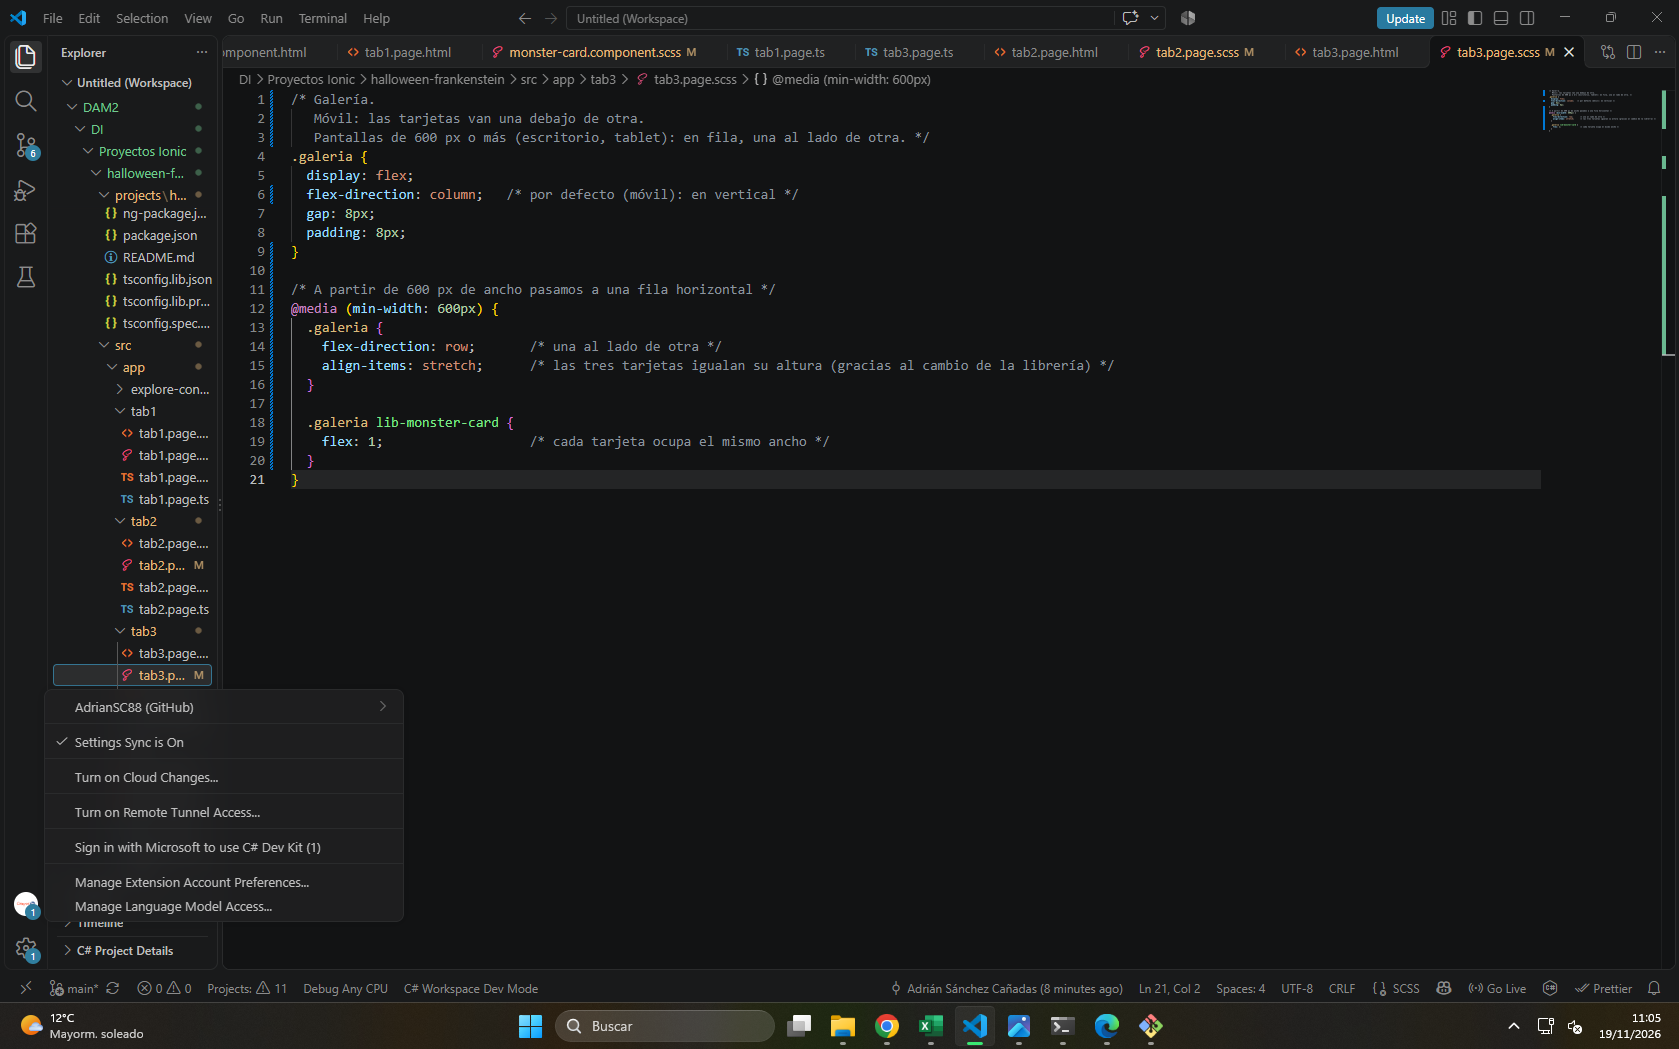
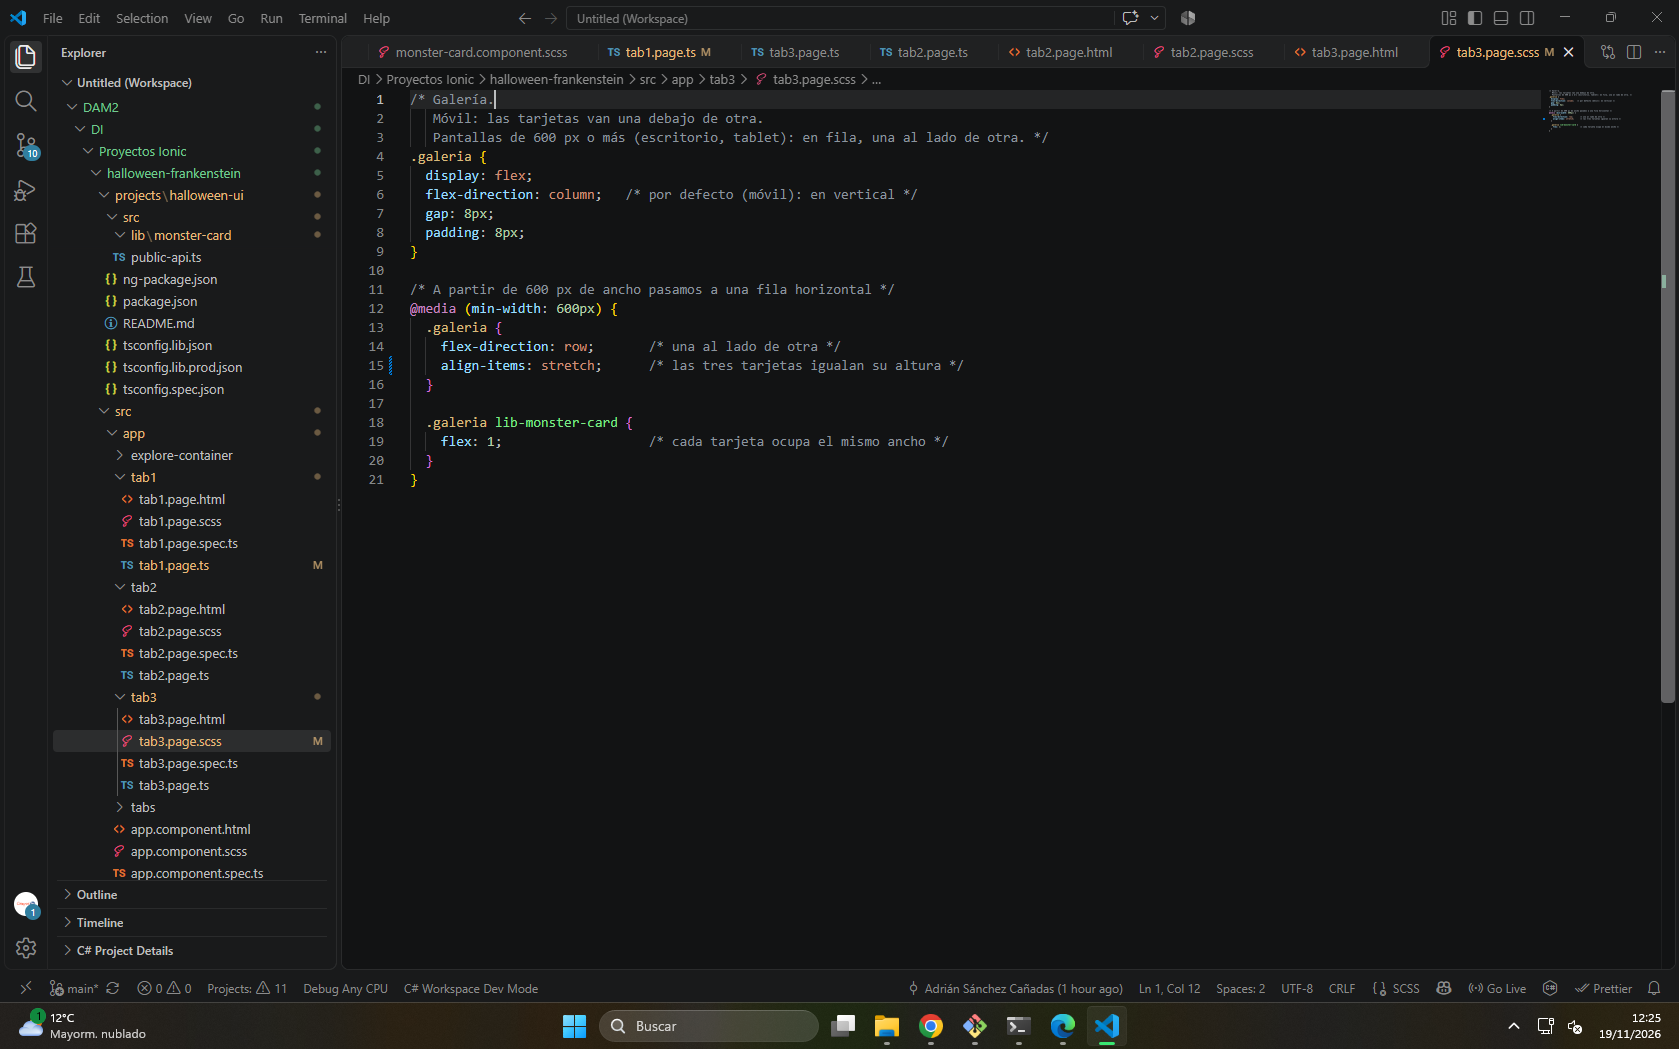
doc: Añadir README.md

diff --git a/src/app/tab1/tab1.page.ts b/src/app/tab1/tab1.page.ts
@@ -19,7 +19,6 @@ import { MonsterCardComponent } from 'halloween-ui';
 export class Tab1Page {
   // Texto que se muestra dentro de la tarjeta.
   // \n\n = línea en blanco entre párrafos y \n = salto de línea simple.
-  // Cada trozo va entre comillas y se une con +; el punto y coma solo va al final.
   textoInicio =
     '«Fui creado con retales de los muertos, y aun así soy el único que siente.»\n\n' +
     'Frankenstein nació en la novela que Mary Shelley publicó en 1818. ' +

diff --git a/projects/halloween-ui/src/lib/monster-card/monster-card.component.ts b/projects/halloween-ui/src/lib/monster-card/monster-card.component.ts
@@ -5,8 +5,7 @@
  * mediante @Input(), y avisa de la pulsación del botón mediante @Output().
  */
 import { Component, EventEmitter, Input, Output } from '@angular/core';
-// Importamos el botón de Ionic en su versión standalone
-// En Ionic 9 los componentes standalone se importan desde el paquete principal
+// Botón de Ionic que usa la plantilla de la tarjeta.
 import { IonButton } from '@ionic/angular';
 
 @Component({

diff --git a/src/app/tab3/tab3.page.scss b/src/app/tab3/tab3.page.scss
@@ -12,7 +12,7 @@
 @media (min-width: 600px) {
   .galeria {
     flex-direction: row;       /* una al lado de otra */
-    align-items: stretch;      /* las tres tarjetas igualan su altura (gracias al cambio de la librería) */
+    align-items: stretch;      /* las tres tarjetas igualan su altura */
   }
 
   .galeria lib-monster-card {

diff --git a/README.md b/README.md
@@ -1,0 +1,94 @@
+# Halloween Frankenstein 🧟
+
+Aplicación Ionic + Angular dedicada a **Frankenstein**, con una librería de componentes propia (`halloween-ui`) que se empaqueta y se reutiliza en las tres pestañas de la app.
+
+Trabajo de la actividad evaluable **DI_2 – Aplicación de Halloween con Ionic** (UD2, RA3) · 2º DAM · CampusFP Alcalá de Henares.
+
+**Autor:** Adrián Sánchez Cañadas
+
+## Qué incluye
+
+- **Inicio**: tarjeta de presentación con la frase del monstruo.
+- **Historia**: cuatro tarjetas (origen, poderes, debilidades y curiosidades) en rejilla.
+- **Galería**: tres escenarios (castillo, laboratorio y tormenta).
+- **Librería `halloween-ui`**: componente `MonsterCardComponent` (`<lib-monster-card>`), reutilizado en las 3 pestañas con contenido distinto.
+
+## Requisitos
+
+- Node.js y npm
+- Ionic CLI (`npm install -g @ionic/cli`)
+- Angular CLI (`npm install -g @angular/cli`)
+
+## Cómo ejecutarlo
+
+```bash
+# 1. Instalar dependencias
+npm install
+
+# 2. Compilar la librería (obligatorio: la carpeta dist/ no se sube al repo)
+ng build halloween-ui
+
+# 3. Arrancar la app
+ionic serve
+```
+
+> Si se salta el paso 2, la app no arranca: `halloween-ui` se resuelve desde `dist/halloween-ui`.
+
+## Estructura
+
+```
+projects/halloween-ui/     Librería Angular (componente monster-card y package.json)
+src/app/tab1, tab2, tab3   Páginas que usan el componente de la librería
+src/app/tabs               Navegación por pestañas
+src/theme/variables.scss   Colores y tipografías (variables --hui-*)
+paquete/                   Paquete generado con npm pack (halloween-ui-1.0.0.tgz)
+```
+
+## Uso del componente
+
+```ts
+// Importar el componente desde la librería
+import { MonsterCardComponent } from 'halloween-ui';
+```
+
+```html
+<!-- Tarjeta con imagen, título, texto y botón -->
+<lib-monster-card
+  imagen="assets/frankenstein.jpg"
+  titulo="Frankenstein"
+  [texto]="textoInicio"
+  textoBoton="Descubrir"
+  (botonPulsado)="alPulsarTarjeta()">
+</lib-monster-card>
+```
+
+| Propiedad | Tipo | Descripción |
+|---|---|---|
+| `imagen` | `@Input()` | Ruta de la imagen (opcional) |
+| `titulo` | `@Input()` | Título de la tarjeta |
+| `texto` | `@Input()` | Texto del cuerpo (respeta los saltos de línea) |
+| `textoBoton` | `@Input()` | Texto del botón (por defecto «Descubrir») |
+| `botonPulsado` | `@Output()` | Se emite al pulsar el botón |
+
+## Empaquetado de la librería
+
+```bash
+# Compilar y generar el .tgz
+ng build halloween-ui
+cd dist/halloween-ui
+npm pack
+```
+
+Se genera `halloween-ui-1.0.0.tgz`, copiado en la carpeta `paquete/`. Para instalarlo en otro proyecto:
+
+```bash
+npm install ./paquete/halloween-ui-1.0.0.tgz
+```
+
+## Créditos de las imágenes
+
+- Frankenstein: Wikimedia Commons (Boris Karloff como el monstruo de Frankenstein)
+- Castillo y tormenta: Pinterest
+- Laboratorio: Google Imágenes
+
+Tipografías: Creepster y Lato (Google Fonts).
